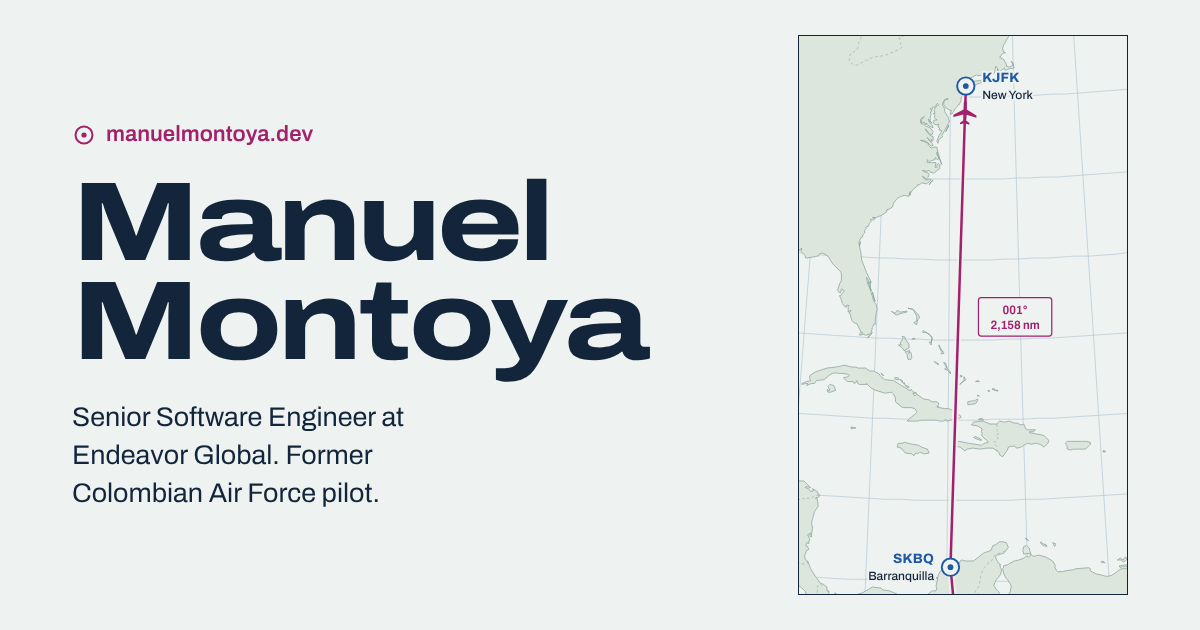
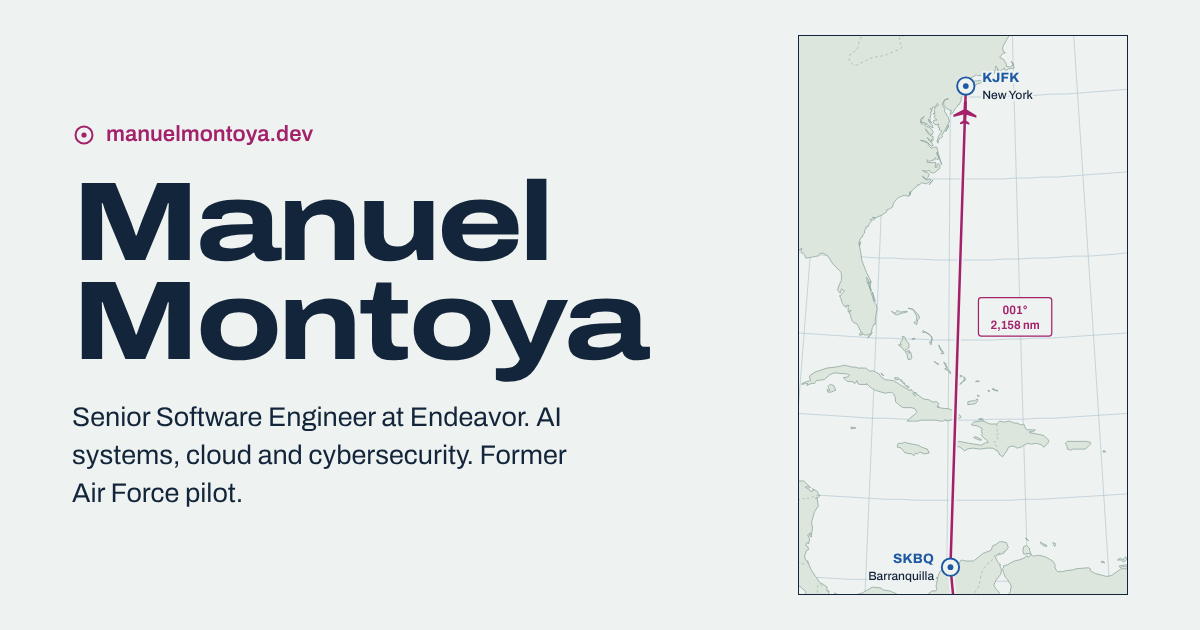
Update profile from LinkedIn and add athmira and KALMA
- Hero, meta tags, structured data and the Endeavor experience entry use
  the LinkedIn headline: AI systems, cloud infrastructure and
  cybersecurity at Endeavor.
- About opens with the LinkedIn summary and names the academy in full
  (Escuela Militar de Aviación Marco Fidel Suárez).
- New "Bringing AI into the work" block in the Endeavor section, with the
  AI kickoff training at the 2026 Endeavor Global Retreat, a hands-on AI
  session photo and a quote from a LinkedIn post.
- Projects lead with two products:
  - athmira: camera bike fit with on-device MediaPipe pose detection,
    built with Expo and Supabase
  - KALMA Play Café: Next.js booking platform with Wompi payments, QR
    check-in and a team panel
  Both link to their live sites because the repositories are private.
  Older work moves under "Earlier work".
- Skills checklist adds AI, computer vision, full-stack, mobile and
  payments, following LinkedIn's top skills.
- Refresh the social share card and README.

Claude-Session: https://claude.ai/code/session_01TuxX8n6aisiRbujgDc2gQ2

Changed region(s): [[0.0617, 0.6333, 0.4625, 0.8143]]

diff --git a/index.html b/index.html
@@ -3,14 +3,14 @@
 <head>
   <meta charset="utf-8">
   <meta name="viewport" content="width=device-width, initial-scale=1">
-  <title>Manuel Montoya, Senior Software Engineer at Endeavor Global</title>
-  <meta name="description" content="Manuel Montoya is a Senior Software Engineer at Endeavor Global working across cybersecurity, cloud, Okta, Salesforce and product. Former Colombian Air Force pilot with 1,500 flight hours. Based in Bogotá.">
+  <title>Manuel Montoya, Senior Software Engineer at Endeavor</title>
+  <meta name="description" content="Manuel Montoya is a Senior Software Engineer at Endeavor working on AI systems, cloud infrastructure and cybersecurity, and the builder of athmira. Former Colombian Air Force pilot with 1,500 flight hours. Based in Bogotá.">
   <meta name="theme-color" content="#EEF2F0" media="(prefers-color-scheme: light)">
   <meta name="theme-color" content="#0D1724" media="(prefers-color-scheme: dark)">
   <meta property="og:type" content="website">
   <meta property="og:url" content="https://manuelmontoya.dev/">
-  <meta property="og:title" content="Manuel Montoya, Senior Software Engineer at Endeavor Global">
-  <meta property="og:description" content="Pilot, engineer, founder. Security, cloud and product for a global network of entrepreneurs.">
+  <meta property="og:title" content="Manuel Montoya, Senior Software Engineer at Endeavor">
+  <meta property="og:description" content="Pilot, engineer, founder. AI systems, cloud infrastructure and cybersecurity for a global network of entrepreneurs.">
   <meta property="og:image" content="https://manuelmontoya.dev/img/og-card.png">
   <meta name="twitter:card" content="summary_large_image">
   <link rel="canonical" href="https://manuelmontoya.dev/">
@@ -37,7 +37,9 @@
     "@type": "Person",
     "name": "Manuel Montoya",
     "jobTitle": "Senior Software Engineer",
-    "worksFor": { "@type": "Organization", "name": "Endeavor Global" },
+    "worksFor": { "@type": "Organization", "name": "Endeavor", "url": "https://endeavor.org" },
+    "alumniOf": { "@type": "CollegeOrUniversity", "name": "Escuela Militar de Aviación Marco Fidel Suárez" },
+    "knowsAbout": ["Artificial Intelligence", "Cloud Computing", "Cybersecurity", "Product Management", "Full-Stack Development"],
     "address": { "@type": "PostalAddress", "addressLocality": "Bogotá", "addressCountry": "CO" },
     "url": "https://manuelmontoya.dev/",
     "sameAs": ["https://www.linkedin.com/in/manuel-montoya-col/", "https://github.com/manuelm1209"]
@@ -117,8 +119,8 @@
           <span class="hero__line"><span>Montoya</span></span>
         </h1>
         <p class="hero__lede">
-          Senior Software Engineer at Endeavor Global, and a Colombian Air Force pilot for ten years before that.
-          I keep the technology behind a global network of entrepreneurs secure, connected and in the cloud.
+          Senior Software Engineer at Endeavor, where I build AI systems, cloud infrastructure and security for a global network of entrepreneurs.
+          Before that, ten years as a Colombian Air Force pilot.
         </p>
         <div class="hero__actions">
           <a class="btn btn--primary" href="assets/CV_Manuel_Montoya.pdf" target="_blank" rel="noopener">
@@ -213,12 +215,16 @@
       <div class="about__text">
         <h2 class="section__title" id="about-title">Pilot, engineer, founder</h2>
         <p class="about__lead">
-          I studied computer science engineering at the Escuela Militar de Aviación and flew for the Colombian Air Force from 2009 to 2019:
+          I help organizations turn ideas into scalable technology by combining AI, cloud infrastructure, cybersecurity and software engineering.
+        </p>
+        <p>
+          I studied computer science engineering at the Escuela Militar de Aviación Marco Fidel Suárez and flew for the Colombian Air Force from 2009 to 2019:
           1,500 flight hours, and a final post leading research, development and innovation in Barranquilla.
         </p>
         <p>
           Alongside flying I started building for the web. Between 2017 and 2021 I freelanced and led three ventures as CEO or CTO:
           monkki, The FitMode and OUTIMPO. Shipping them end to end taught me cloud, code, security and the business around them.
+          Today I'm building a fourth: <a href="#p-athmira">athmira</a>, a training app for cyclists and triathletes.
         </p>
         <p>
           Since 2021 I've worked at Endeavor, first in Colombia and, since 2023, on the global team in New York.
@@ -251,7 +257,7 @@
         <h2 class="section__title" id="endeavor-title">My work at Endeavor</h2>
         <p class="section__lede">
           Endeavor is the global community of high-impact entrepreneurs, building thriving entrepreneurial ecosystems in emerging and underserved markets.
-          My job is the technology underneath it: secure, connected and dependable.
+          My job is the technology underneath it: AI systems, cloud infrastructure and security the whole network can depend on.
         </p>
       </div>
 
@@ -311,6 +317,32 @@
         </ol>
       </div>
 
+      <section class="ai" aria-labelledby="ai-title">
+        <figure class="ai__photo">
+          <div class="media">
+            <img src="img/endeavor-ai-kickoff.jpg" alt="Manuel presenting an AI kickoff training to a room of Endeavor colleagues in New York" width="800" height="600" loading="lazy" decoding="async">
+            <img class="media__duo" src="img/endeavor-ai-kickoff.jpg" alt="" width="800" height="600" loading="lazy" decoding="async" aria-hidden="true">
+          </div>
+          <figcaption>The AI kickoff training for the in-person AI hackathon at the 2026 Endeavor Global Retreat, New York.</figcaption>
+        </figure>
+        <div class="ai__text">
+          <h3 class="ai__title" id="ai-title">Bringing AI into the work</h3>
+          <p>
+            Building AI systems is half the job; the other half is helping people use them.
+            At the 2026 Endeavor Global Retreat in New York I led the AI kickoff training for an in-person hackathon at our office,
+            and I run hands-on AI sessions with Endeavor's teams.
+          </p>
+          <blockquote class="ai__quote"><p>The hardest part of adopting AI isn't the technology. It's us.</p></blockquote>
+          <figure class="ai__inset">
+            <div class="media">
+              <img src="img/endeavor-ai-session.jpg" alt="Manuel leading a hands-on session for Endeavor colleagues working on laptops" width="480" height="360" loading="lazy" decoding="async">
+              <img class="media__duo" src="img/endeavor-ai-session.jpg" alt="" width="480" height="360" loading="lazy" decoding="async" aria-hidden="true">
+            </div>
+            <figcaption>A hands-on AI session with Endeavor's team.</figcaption>
+          </figure>
+        </div>
+      </section>
+
       <p class="endeavor__note">
         On the global team I also work as a product manager: shaping requirements, setting OKRs and getting changes shipped across teams.
       </p>
@@ -333,8 +365,8 @@
             <p class="leg__when"><time datetime="2023">2023</time> to now</p>
             <p class="leg__where"><abbr title="ICAO code for John F. Kennedy International Airport">KJFK</abbr> New York</p>
             <h3 class="leg__role">Senior Software Engineer <span>Endeavor Global</span></h3>
-            <p>Cybersecurity, cloud computing and product management for Endeavor's global team. I administer Okta and Salesforce for staff around the world.</p>
-            <ul class="tags"><li>Cybersecurity</li><li>Cloud</li><li>Product management</li><li>Okta</li><li>Salesforce</li></ul>
+            <p>AI systems, cloud infrastructure, cybersecurity and product management for Endeavor's global team. I administer Okta and Salesforce for staff around the world and help teams adopt AI.</p>
+            <ul class="tags"><li>AI systems</li><li>Cybersecurity</li><li>Cloud</li><li>Product management</li><li>Okta</li><li>Salesforce</li></ul>
           </li>
           <li class="leg leg--waypoint" id="xp-colombia">
             <p class="leg__when"><time datetime="2021">2021</time> to <time datetime="2023">2023</time></p>
@@ -380,7 +412,7 @@
       <div class="education">
         <h3 class="education__title">Education</h3>
         <ul class="education__list">
-          <li><span class="education__years">2009 to 2012</span> Computer Science Engineering, Escuela Militar de Aviación</li>
+          <li><span class="education__years">2009 to 2012</span> Computer Science Engineering, Escuela Militar de Aviación Marco Fidel Suárez</li>
           <li><span class="education__years">2006 to 2008</span> Computer Science Engineering, Universidad Tecnológica de Pereira</li>
           <li><span class="education__years">2004 to 2005</span> Computer Science Technology, INTESCO</li>
         </ul>
@@ -394,18 +426,21 @@
         <p class="section__lede">Read the way a crew runs a checklist: the item, then the answer.</p>
       </div>
       <ol class="checklist" data-reveal data-checklist>
+        <li><span class="checklist__item">Artificial intelligence</span><span class="checklist__lead"></span><span class="checklist__resp">AI systems, agents, team training</span></li>
+        <li><span class="checklist__item">Computer vision</span><span class="checklist__lead"></span><span class="checklist__resp">On-device pose detection with MediaPipe</span></li>
+        <li><span class="checklist__item">Cloud</span><span class="checklist__lead"></span><span class="checklist__resp">AWS, Google Cloud, Vercel</span></li>
+        <li><span class="checklist__item">Security</span><span class="checklist__lead"></span><span class="checklist__resp">Intrusion detection with Snort, web app testing, hardening</span></li>
         <li><span class="checklist__item">Identity and access</span><span class="checklist__lead"></span><span class="checklist__resp">Okta, SSO, MFA</span></li>
         <li><span class="checklist__item">CRM</span><span class="checklist__lead"></span><span class="checklist__resp">Salesforce</span></li>
-        <li><span class="checklist__item">Cloud</span><span class="checklist__lead"></span><span class="checklist__resp">AWS, Google Cloud</span></li>
-        <li><span class="checklist__item">Security</span><span class="checklist__lead"></span><span class="checklist__resp">Intrusion detection with Snort, web app testing, hardening</span></li>
-        <li><span class="checklist__item">Servers</span><span class="checklist__lead"></span><span class="checklist__resp">GNU/Linux, Bash</span></li>
+        <li><span class="checklist__item">Product management</span><span class="checklist__lead"></span><span class="checklist__resp">Agile, OKRs, project delivery</span></li>
+        <li><span class="checklist__item">Full-stack web</span><span class="checklist__lead"></span><span class="checklist__resp">TypeScript, React, Next.js, Supabase</span></li>
+        <li><span class="checklist__item">Mobile</span><span class="checklist__lead"></span><span class="checklist__resp">React Native and Expo for iOS and Android</span></li>
+        <li><span class="checklist__item">Payments and email</span><span class="checklist__lead"></span><span class="checklist__resp">Wompi, Resend</span></li>
         <li><span class="checklist__item">Web</span><span class="checklist__lead"></span><span class="checklist__resp">WordPress, PHP, HTML, CSS, JavaScript</span></li>
-        <li><span class="checklist__item">Web apps</span><span class="checklist__lead"></span><span class="checklist__resp">TypeScript, Next.js, Supabase</span></li>
-        <li><span class="checklist__item">APIs</span><span class="checklist__lead"></span><span class="checklist__resp">REST</span></li>
+        <li><span class="checklist__item">Python</span><span class="checklist__lead"></span><span class="checklist__resp">FastAPI, Streamlit</span></li>
         <li><span class="checklist__item">Data visualization</span><span class="checklist__lead"></span><span class="checklist__resp">D3.js</span></li>
-        <li><span class="checklist__item">Python and AI</span><span class="checklist__lead"></span><span class="checklist__resp">AI agents, FastAPI, Streamlit</span></li>
-        <li><span class="checklist__item">Mobile</span><span class="checklist__lead"></span><span class="checklist__resp">iOS and Android apps</span></li>
-        <li><span class="checklist__item">Delivery</span><span class="checklist__lead"></span><span class="checklist__resp">Agile, OKRs, project management</span></li>
+        <li><span class="checklist__item">Servers</span><span class="checklist__lead"></span><span class="checklist__resp">GNU/Linux, Bash</span></li>
+        <li><span class="checklist__item">APIs</span><span class="checklist__lead"></span><span class="checklist__resp">REST</span></li>
         <li><span class="checklist__item">Version control</span><span class="checklist__lead"></span><span class="checklist__resp">Git</span></li>
       </ol>
       <p class="checklist__done" aria-hidden="true">Checklist complete.</p>
@@ -415,7 +450,40 @@
     <section class="section projects" id="projects" aria-labelledby="projects-title">
       <div class="section__head">
         <h2 class="section__title" id="projects-title">Projects</h2>
-        <p class="section__lede">Platforms for Endeavor, products for my own companies, and the experiments in between.</p>
+        <p class="section__lede">Products I'm building now, platforms for Endeavor, and the experiments in between.</p>
+      </div>
+
+      <div class="products">
+        <article class="product" id="p-athmira" aria-labelledby="p-athmira-title">
+          <div class="media">
+            <img src="img/projects/athmira-bike-fit.jpg" alt="A cyclist on an indoor trainer with joint angles traced over the knee, hip and arm" width="1200" height="799" loading="lazy" decoding="async">
+            <img class="media__duo" src="img/projects/athmira-bike-fit.jpg" alt="" width="1200" height="799" loading="lazy" decoding="async" aria-hidden="true">
+          </div>
+          <h3 class="product__title" id="p-athmira-title">athmira</h3>
+          <p class="product__tagline">Train smarter. Go further.</p>
+          <p>
+            A training app I'm building for beginner and intermediate cyclists and triathletes. Its camera bike fit reads joint angles
+            from the side, front and back with on-device pose detection, alongside tire pressure, fueling and aero estimates.
+          </p>
+          <p>One Expo codebase runs the web app and the iOS and Android apps, backed by Supabase.</p>
+          <ul class="tags"><li>Expo and React Native</li><li>MediaPipe pose detection</li><li>TypeScript</li><li>Supabase</li><li>Vercel</li></ul>
+          <p class="work__links"><a href="https://athmira.com" target="_blank" rel="noopener">Visit athmira.com<svg class="icon" aria-hidden="true"><use href="#i-out"/></svg><span class="sr-only"> (opens in a new tab)</span></a></p>
+        </article>
+        <article class="product" id="p-kalma" aria-labelledby="p-kalma-title">
+          <div class="media">
+            <img src="img/projects/kalma-play-cafe.jpg" alt="KALMA brand illustration: two toddlers playing on a wooden climbing arch beside a cup of coffee" width="1200" height="800" loading="lazy" decoding="async">
+            <img class="media__duo" src="img/projects/kalma-play-cafe.jpg" alt="" width="1200" height="800" loading="lazy" decoding="async" aria-hidden="true">
+          </div>
+          <h3 class="product__title" id="p-kalma-title">KALMA Play Café</h3>
+          <p class="product__tagline" lang="es">Crecer con Kalma. Vivir con Alma.</p>
+          <p>
+            The website and booking platform for a play café for young children and their families in Pereira, Colombia.
+            Families book play time with live availability and pay online, sign up for classes and memberships, and check in with a QR code and a digital signature.
+          </p>
+          <p>The team runs bookings, the menu, the blog and a family CRM from its own panel, and Slow, the café's sloth mascot, answers questions before handing off to WhatsApp.</p>
+          <ul class="tags"><li>Next.js</li><li>TypeScript</li><li>Supabase</li><li>Wompi payments</li><li>Resend</li><li>Vercel</li></ul>
+          <p class="work__links"><a href="https://kalmaplaycafe.com" target="_blank" rel="noopener">Visit kalmaplaycafe.com<svg class="icon" aria-hidden="true"><use href="#i-out"/></svg><span class="sr-only"> (opens in a new tab)</span></a></p>
+        </article>
       </div>
 
       <article class="feature" aria-labelledby="feature-title">
@@ -429,6 +497,7 @@
           <p>
             A D3.js globe I built to explore Endeavor's network market by market.
             Here, each highlighted market is linked back to the global office in New York.
+            It takes its name from Endeavor's <a href="https://endeavor.org/multipliereffect" target="_blank" rel="noopener">Multiplier Effect<span class="sr-only"> (opens in a new tab)</span></a>.
           </p>
           <p class="feature__links">
             <a class="btn btn--primary" href="map/">Open the full globe</a>
@@ -440,6 +509,7 @@
         </div>
       </article>
 
+      <h3 class="work__heading">Earlier work</h3>
       <ul class="work">
         <li class="work__item work__item--tall">
           <div class="media">
@@ -564,7 +634,7 @@
       <dl class="contact__facts">
         <div><dt>Based in</dt><dd>Bogotá, Colombia</dd></div>
         <div><dt>Languages</dt><dd>Spanish (native), English (full professional proficiency)</dd></div>
-        <div><dt>Education</dt><dd>Computer Science Engineering, Escuela Militar de Aviación</dd></div>
+        <div><dt>Education</dt><dd>Computer Science Engineering, Escuela Militar de Aviación Marco Fidel Suárez</dd></div>
       </dl>
     </section>
   </main>

diff --git a/css/site.css b/css/site.css
@@ -533,8 +533,48 @@ abbr[title] { text-decoration: none; }
   content: ""; position: absolute; left: 0; right: 0; bottom: 0; height: 2px;
   background: var(--magenta); opacity: 0; pointer-events: none;
 }
-.work__item:hover .media__duo, .work__item:focus-within .media__duo { clip-path: inset(0 0 100% 0); }
+.work__item:hover .media__duo, .work__item:focus-within .media__duo,
+.product:hover .media__duo, .product:focus-within .media__duo,
+.ai figure:hover .media__duo { clip-path: inset(0 0 100% 0); }
 .projects__more { margin-top: clamp(2.5rem, 5vw, 4rem); color: var(--ink-soft); }
+
+/* Products being built now: the largest project entries */
+.products {
+  display: grid; grid-template-columns: repeat(2, minmax(0, 1fr));
+  gap: clamp(3rem, 5vw, 4rem) clamp(1.5rem, 4vw, 3.5rem);
+  margin-bottom: clamp(4.5rem, 9vw, 7.5rem);
+}
+.product .media { aspect-ratio: 3 / 2; }
+.product__title {
+  margin: 1.4rem 0 0.3rem;
+  font-size: clamp(1.75rem, 1.2rem + 1.6vw, 2.5rem); font-stretch: 112%; font-weight: 720;
+  letter-spacing: -0.02em; line-height: 1.05;
+}
+.product__tagline { margin-bottom: 0.9rem; color: var(--magenta); font-weight: 600; }
+.product > p:not([class]) { color: var(--ink-soft); max-width: 56ch; text-wrap: pretty; }
+.product > p:not([class]) + p:not([class]) { margin-top: 0.75rem; }
+.product .work__links { margin-top: 1rem; }
+.work__heading { margin-bottom: 1.5rem; padding-top: 1.25rem; border-top: 1px solid var(--rule); font-size: var(--step-1); font-weight: 680; }
+
+/* Endeavor: bringing AI into the work */
+.ai {
+  display: grid; grid-template-columns: minmax(0, 1.15fr) minmax(0, 0.85fr);
+  gap: clamp(2rem, 5vw, 5rem); align-items: start;
+  margin-top: clamp(4rem, 8vw, 6rem);
+}
+.ai figure .media { aspect-ratio: 4 / 3; }
+.ai figcaption { margin-top: 0.6rem; font-size: 0.875rem; color: var(--ink-soft); max-width: 52ch; }
+.ai__title {
+  margin-bottom: 1rem;
+  font-size: clamp(1.75rem, 1.2rem + 1.6vw, 2.5rem); font-stretch: 112%; font-weight: 720;
+  letter-spacing: -0.02em; line-height: 1.05;
+}
+.ai__text > p { max-width: 46ch; text-wrap: pretty; }
+.ai__quote {
+  margin: 1.75rem 0; padding-left: 1.1rem; border-left: 3px solid var(--magenta);
+  font-size: var(--step-1); font-weight: 620; line-height: 1.4; text-wrap: balance;
+}
+.ai__inset { max-width: 320px; }
 .projects__more a { font-weight: 600; }
 
 /* ---------- Writing ---------- */
@@ -648,6 +688,7 @@ abbr[title] { text-decoration: none; }
   .section__head { grid-template-columns: minmax(0, 1fr); }
   .checklist { columns: 1; }
   .contact__facts { grid-template-columns: minmax(0, 1fr); }
+  .products, .ai { grid-template-columns: minmax(0, 1fr); }
 }
 @media (max-width: 820px) {
   .nav__menu { display: inline-flex; align-items: center; }
@@ -797,12 +838,15 @@ abbr[title] { text-decoration: none; }
 .motion [data-checklist].is-in .checklist__lead { transform: none; }
 .motion [data-checklist].is-in .checklist__resp { opacity: 1; transform: none; }
 .motion [data-checklist].is-in li::after { scale: 1; }
-.motion .checklist__done { opacity: 0; transition: opacity 600ms; transition-delay: 1600ms; }
+.motion .checklist__done { opacity: 0; transition: opacity 600ms; transition-delay: 1900ms; }
 .motion [data-checklist].is-in + .checklist__done { opacity: 1; }
 
 /* Project images develop from cyanotype to color with a scan line. */
 .motion .work__item:hover .media::after,
-.motion .work__item:focus-within .media::after { animation: media-scan 700ms var(--ease-in-out); }
+.motion .work__item:focus-within .media::after,
+.motion .product:hover .media::after,
+.motion .product:focus-within .media::after,
+.motion .ai figure:hover .media::after { animation: media-scan 700ms var(--ease-in-out); }
 @keyframes media-scan { 0% { bottom: 0; opacity: 1; } 90% { opacity: 1; } 100% { bottom: 100%; opacity: 0; } }
 
 /* ==========================================================================

diff --git a/README.md b/README.md
@@ -1,6 +1,6 @@
 # manuelmontoya.dev
 
-Personal site of **Manuel Montoya**: Senior Software Engineer at Endeavor Global, former Colombian Air Force pilot, founder.
+Personal site of **Manuel Montoya**: Senior Software Engineer at Endeavor (AI systems, cloud infrastructure and cybersecurity), former Colombian Air Force pilot, founder.
 
 ## Design: "chart and logbook"
 
@@ -14,7 +14,7 @@ The site borrows the visual language of aeronautical charts to tell a pilot-to-e
   - Endeavor: a defense-in-depth diagram with a radar-sweep reveal.
   - Experience: a flight log whose route is drawn as you scroll.
   - Skills: a pre-flight checklist that runs item by item.
-  - Projects: a D3 globe of Endeavor's network, plus cyanotype images that develop to colour on hover.
+  - Projects: athmira (camera bike fit with on-device pose detection) and KALMA Play Café (booking platform), a D3 globe of Endeavor's network, and earlier work. Images are cyanotype until hover, then develop to colour.
   - Writing: posts that morph into their article page via cross-document View Transitions.
 - **Accessibility.**
   - Semantic HTML with a skip link, visible focus and 44px touch targets on touch screens.
